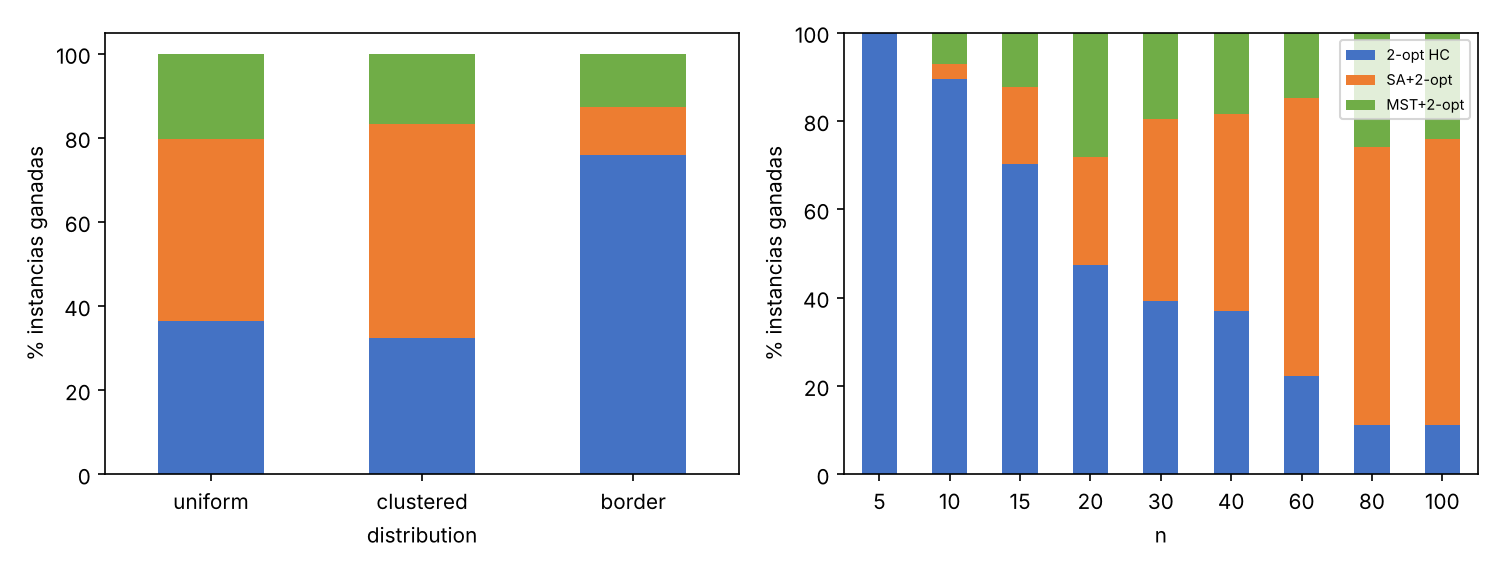
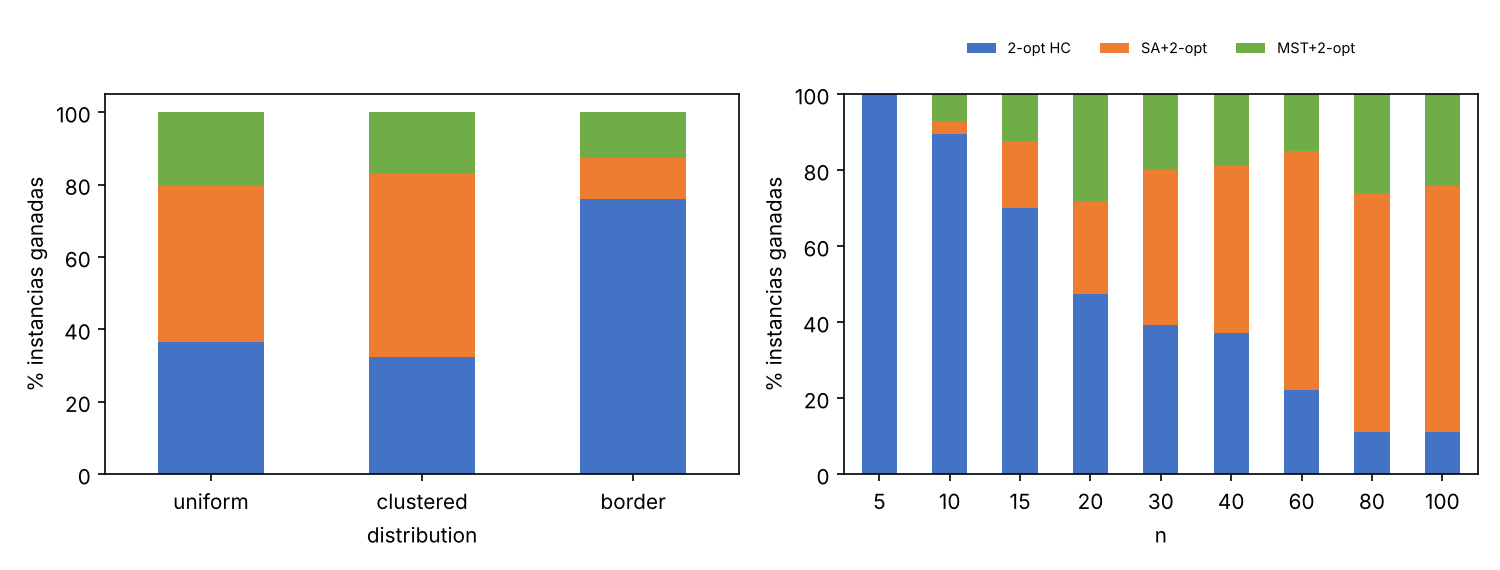
Update requirements and add new metrics and scripts for TSP evaluation

diff --git a/src/train_eval.py b/src/train_eval.py
@@ -119,12 +119,13 @@ ct.to_csv(f"{RES}/winners_by_dist_n.csv")
 allf["sa_vs_hc"] = (allf.cost_sa_2opt / allf.cost_2opt_hill_climbing - 1) * 100
 allf["mst_vs_hc"] = (allf.cost_mst_2opt / allf.cost_2opt_hill_climbing - 1) * 100
 out["rel_vs_hc_by_n"] = allf.groupby("n")[["sa_vs_hc", "mst_vs_hc"]].mean().round(2).to_dict("index")
+out["rel_vs_hc_median_by_dist"] = allf.groupby("distribution")[["sa_vs_hc", "mst_vs_hc"]].median().round(2).to_dict("index")
 out["rel_vs_hc_by_dist"] = allf.groupby("distribution")[["sa_vs_hc", "mst_vs_hc"]].mean().round(2).to_dict("index")
 
 # ---- figuras ----
 from sklearn.tree import plot_tree
 fig, ax = plt.subplots(figsize=(14, 7))
-plot_tree(m, feature_names=list(Xtr.columns), class_names=ALGS, filled=True, ax=ax, fontsize=7, max_depth=4)
+plot_tree(m, feature_names=list(Xtr.columns), class_names=list(m.classes_), filled=True, ax=ax, fontsize=7, max_depth=4)
 fig.savefig(f"{RES}/tree.png", dpi=150, bbox_inches="tight"); plt.close(fig)
 
 fig, ax = plt.subplots(figsize=(5, 4))
@@ -144,7 +145,7 @@ for ax, col, order in [(axs[0], "distribution", ["uniform", "clustered", "border
     ct = pd.crosstab(allf[col], allf.best_algorithm).reindex(index=order, columns=ALGS, fill_value=0)
     (ct.div(ct.sum(axis=1), axis=0) * 100).plot.bar(stacked=True, ax=ax, color=["#4472C4", "#ED7D31", "#70AD47"], legend=False, rot=0)
     ax.set_ylabel("% instancias ganadas"); ax.set_xlabel(col)
-axs[1].legend(["2-opt HC", "SA+2-opt", "MST+2-opt"], fontsize=7)
+axs[1].legend(["2-opt HC", "SA+2-opt", "MST+2-opt"], fontsize=7, loc="upper center", bbox_to_anchor=(0.5, 1.18), ncol=3, frameon=False)
 fig.tight_layout(); fig.savefig(f"{RES}/winners.png", dpi=150); plt.close(fig)
 
 json.dump(out, open(f"{RES}/metrics.json", "w"), indent=1, default=str)

diff --git a/src/sa_config_check.py b/src/sa_config_check.py
@@ -1,0 +1,17 @@
+"""Comparación de configuraciones de SA usada para elegir los parámetros (no se ajustó para balancear clases).
+Usa 4 instancias de entrenamiento con n=100 y 4 con n=30; reporta la suma de costos de SA (y de HC como referencia)."""
+import os, sys, random
+import pandas as pd
+sys.path.insert(0, os.path.dirname(__file__))
+import tsp_algorithms as A
+DATA = os.path.join(os.path.dirname(__file__), "..", "data")
+tr = pd.read_csv(os.path.join(DATA, "train.csv"))
+ids = list(tr[tr.n == 100].instance_id[:4]) + list(tr[tr.n == 30].instance_id[:4])
+CFGS = [dict(T0=0.1, alpha=0.95, iters_factor=10), dict(T0=0.1, alpha=0.98, iters_factor=20), dict(T0=0.05, alpha=0.98, iters_factor=20)]
+Ds = []
+for i in ids:
+    d = pd.read_csv(os.path.join(DATA, "instances", f"{i}.csv")); Ds.append(A.dist_matrix(list(zip(d.x, d.y))))
+hc = sum(A.hill_climbing_2opt(D, random.Random(1))[1] for D in Ds)
+print(f"HC (referencia): {hc:.3f}")
+for cfg in CFGS:
+    print(cfg, round(sum(A.simulated_annealing_2opt(D, random.Random(1), **cfg)[1] for D in Ds), 3))

diff --git a/README.md b/README.md
@@ -1,0 +1,225 @@
+{
+ "class_balance": {
+  "2opt_hill_climbing": [
+   241,
+   48.2
+  ],
+  "sa_2opt": [
+   176,
+   35.2
+  ],
+  "mst_2opt": [
+   83,
+   16.6
+  ]
+ },
+ "baseline_acc_test": 0.5234899328859061,
+ "models": {
+  "DecisionTree": {
+   "best_params": {
+    "max_depth": 2,
+    "min_samples_leaf": 1
+   },
+   "cv_acc": 0.7094164989939639,
+   "test_acc": 0.7114093959731543,
+   "regret_abs": 0.04633001616609935,
+   "regret_rel_pct": 1.0845319789859997,
+   "optimal_picks": 111
+  },
+  "KNN": {
+   "best_params": {
+    "n_neighbors": 7,
+    "weights": "uniform"
+   },
+   "cv_acc": 0.703661971830986,
+   "test_acc": 0.6912751677852349,
+   "regret_abs": 0.046777641537611714,
+   "regret_rel_pct": 1.0002930934884815,
+   "optimal_picks": 117
+  },
+  "RandomForest": {
+   "best_params": {
+    "max_depth": 5,
+    "min_samples_leaf": 1
+   },
+   "cv_acc": 0.7150100603621731,
+   "test_acc": 0.697986577181208,
+   "regret_abs": 0.036558836189145225,
+   "regret_rel_pct": 0.80846196622345,
+   "optimal_picks": 119
+  }
+ },
+ "test_acc": 0.7114093959731543,
+ "confusion": [
+  [
+   72,
+   6,
+   0
+  ],
+  [
+   16,
+   34,
+   0
+  ],
+  [
+   10,
+   11,
+   0
+  ]
+ ],
+ "regret_abs_mean": 0.04633001616609935,
+ "regret_rel_mean_pct": 1.0845319789859997,
+ "pred_counts": {
+  "2opt_hill_climbing": 98,
+  "sa_2opt": 51,
+  "mst_2opt": 0
+ },
+ "importance_perm": {
+  "n": 0.1533,
+  "mean_pairwise_dist": 0.109,
+  "std_coords": 0.0,
+  "mean_centroid_dist": 0.0,
+  "mean_nn_dist": 0.0,
+  "dist_uniform": 0.0,
+  "dist_clustered": 0.0,
+  "dist_border": 0.0
+ },
+ "importance_tree": {
+  "n": 0.6634,
+  "mean_pairwise_dist": 0.3366,
+  "std_coords": 0.0,
+  "mean_centroid_dist": 0.0,
+  "mean_nn_dist": 0.0,
+  "dist_uniform": 0.0,
+  "dist_clustered": 0.0,
+  "dist_border": 0.0
+ },
+ "by_distribution": {
+  "border": {
+   "2opt_hill_climbing": 126,
+   "sa_2opt": 19,
+   "mst_2opt": 21
+  },
+  "clustered": {
+   "2opt_hill_climbing": 54,
+   "sa_2opt": 85,
+   "mst_2opt": 28
+  },
+  "uniform": {
+   "2opt_hill_climbing": 61,
+   "sa_2opt": 72,
+   "mst_2opt": 34
+  }
+ },
+ "by_n": {
+  "5": {
+   "2opt_hill_climbing": 57,
+   "sa_2opt": 0,
+   "mst_2opt": 0
+  },
+  "10": {
+   "2opt_hill_climbing": 51,
+   "sa_2opt": 2,
+   "mst_2opt": 4
+  },
+  "15": {
+   "2opt_hill_climbing": 40,
+   "sa_2opt": 10,
+   "mst_2opt": 7
+  },
+  "20": {
+   "2opt_hill_climbing": 27,
+   "sa_2opt": 14,
+   "mst_2opt": 16
+  },
+  "30": {
+   "2opt_hill_climbing": 22,
+   "sa_2opt": 23,
+   "mst_2opt": 11
+  },
+  "40": {
+   "2opt_hill_climbing": 20,
+   "sa_2opt": 24,
+   "mst_2opt": 10
+  },
+  "60": {
+   "2opt_hill_climbing": 12,
+   "sa_2opt": 34,
+   "mst_2opt": 8
+  },
+  "80": {
+   "2opt_hill_climbing": 6,
+   "sa_2opt": 34,
+   "mst_2opt": 14
+  },
+  "100": {
+   "2opt_hill_climbing": 6,
+   "sa_2opt": 35,
+   "mst_2opt": 13
+  }
+ },
+ "rel_vs_hc_by_n": {
+  "5": {
+   "sa_vs_hc": 0.0,
+   "mst_vs_hc": 0.0
+  },
+  "10": {
+   "sa_vs_hc": -0.32,
+   "mst_vs_hc": 0.01
+  },
+  "15": {
+   "sa_vs_hc": -0.96,
+   "mst_vs_hc": 0.01
+  },
+  "20": {
+   "sa_vs_hc": -1.28,
+   "mst_vs_hc": -0.28
+  },
+  "30": {
+   "sa_vs_hc": -2.16,
+   "mst_vs_hc": -1.07
+  },
+  "40": {
+   "sa_vs_hc": -2.2,
+   "mst_vs_hc": -0.56
+  },
+  "60": {
+   "sa_vs_hc": -4.97,
+   "mst_vs_hc": -1.85
+  },
+  "80": {
+   "sa_vs_hc": -6.47,
+   "mst_vs_hc": -4.22
+  },
+  "100": {
+   "sa_vs_hc": -2.07,
+   "mst_vs_hc": -2.34
+  }
+ },
+ "rel_vs_hc_by_dist": {
+  "border": {
+   "sa_vs_hc": -1.33,
+   "mst_vs_hc": -1.02
+  },
+  "clustered": {
+   "sa_vs_hc": -2.33,
+   "mst_vs_hc": -0.74
+  },
+  "uniform": {
+   "sa_vs_hc": -3.02,
+   "mst_vs_hc": -1.59
+  }
+ },
+ "regret_siempre_2opt_hill_climbing": [
+  0.12617003650772018,
+  2.6769785754773077
+ ],
+ "regret_siempre_sa_2opt": [
+  0.014217722415956608,
+  0.27499133256199243
+ ],
+ "regret_siempre_mst_2opt": [
+  0.07228551459181874,
+  1.6895301167373622
+ ]
+}
